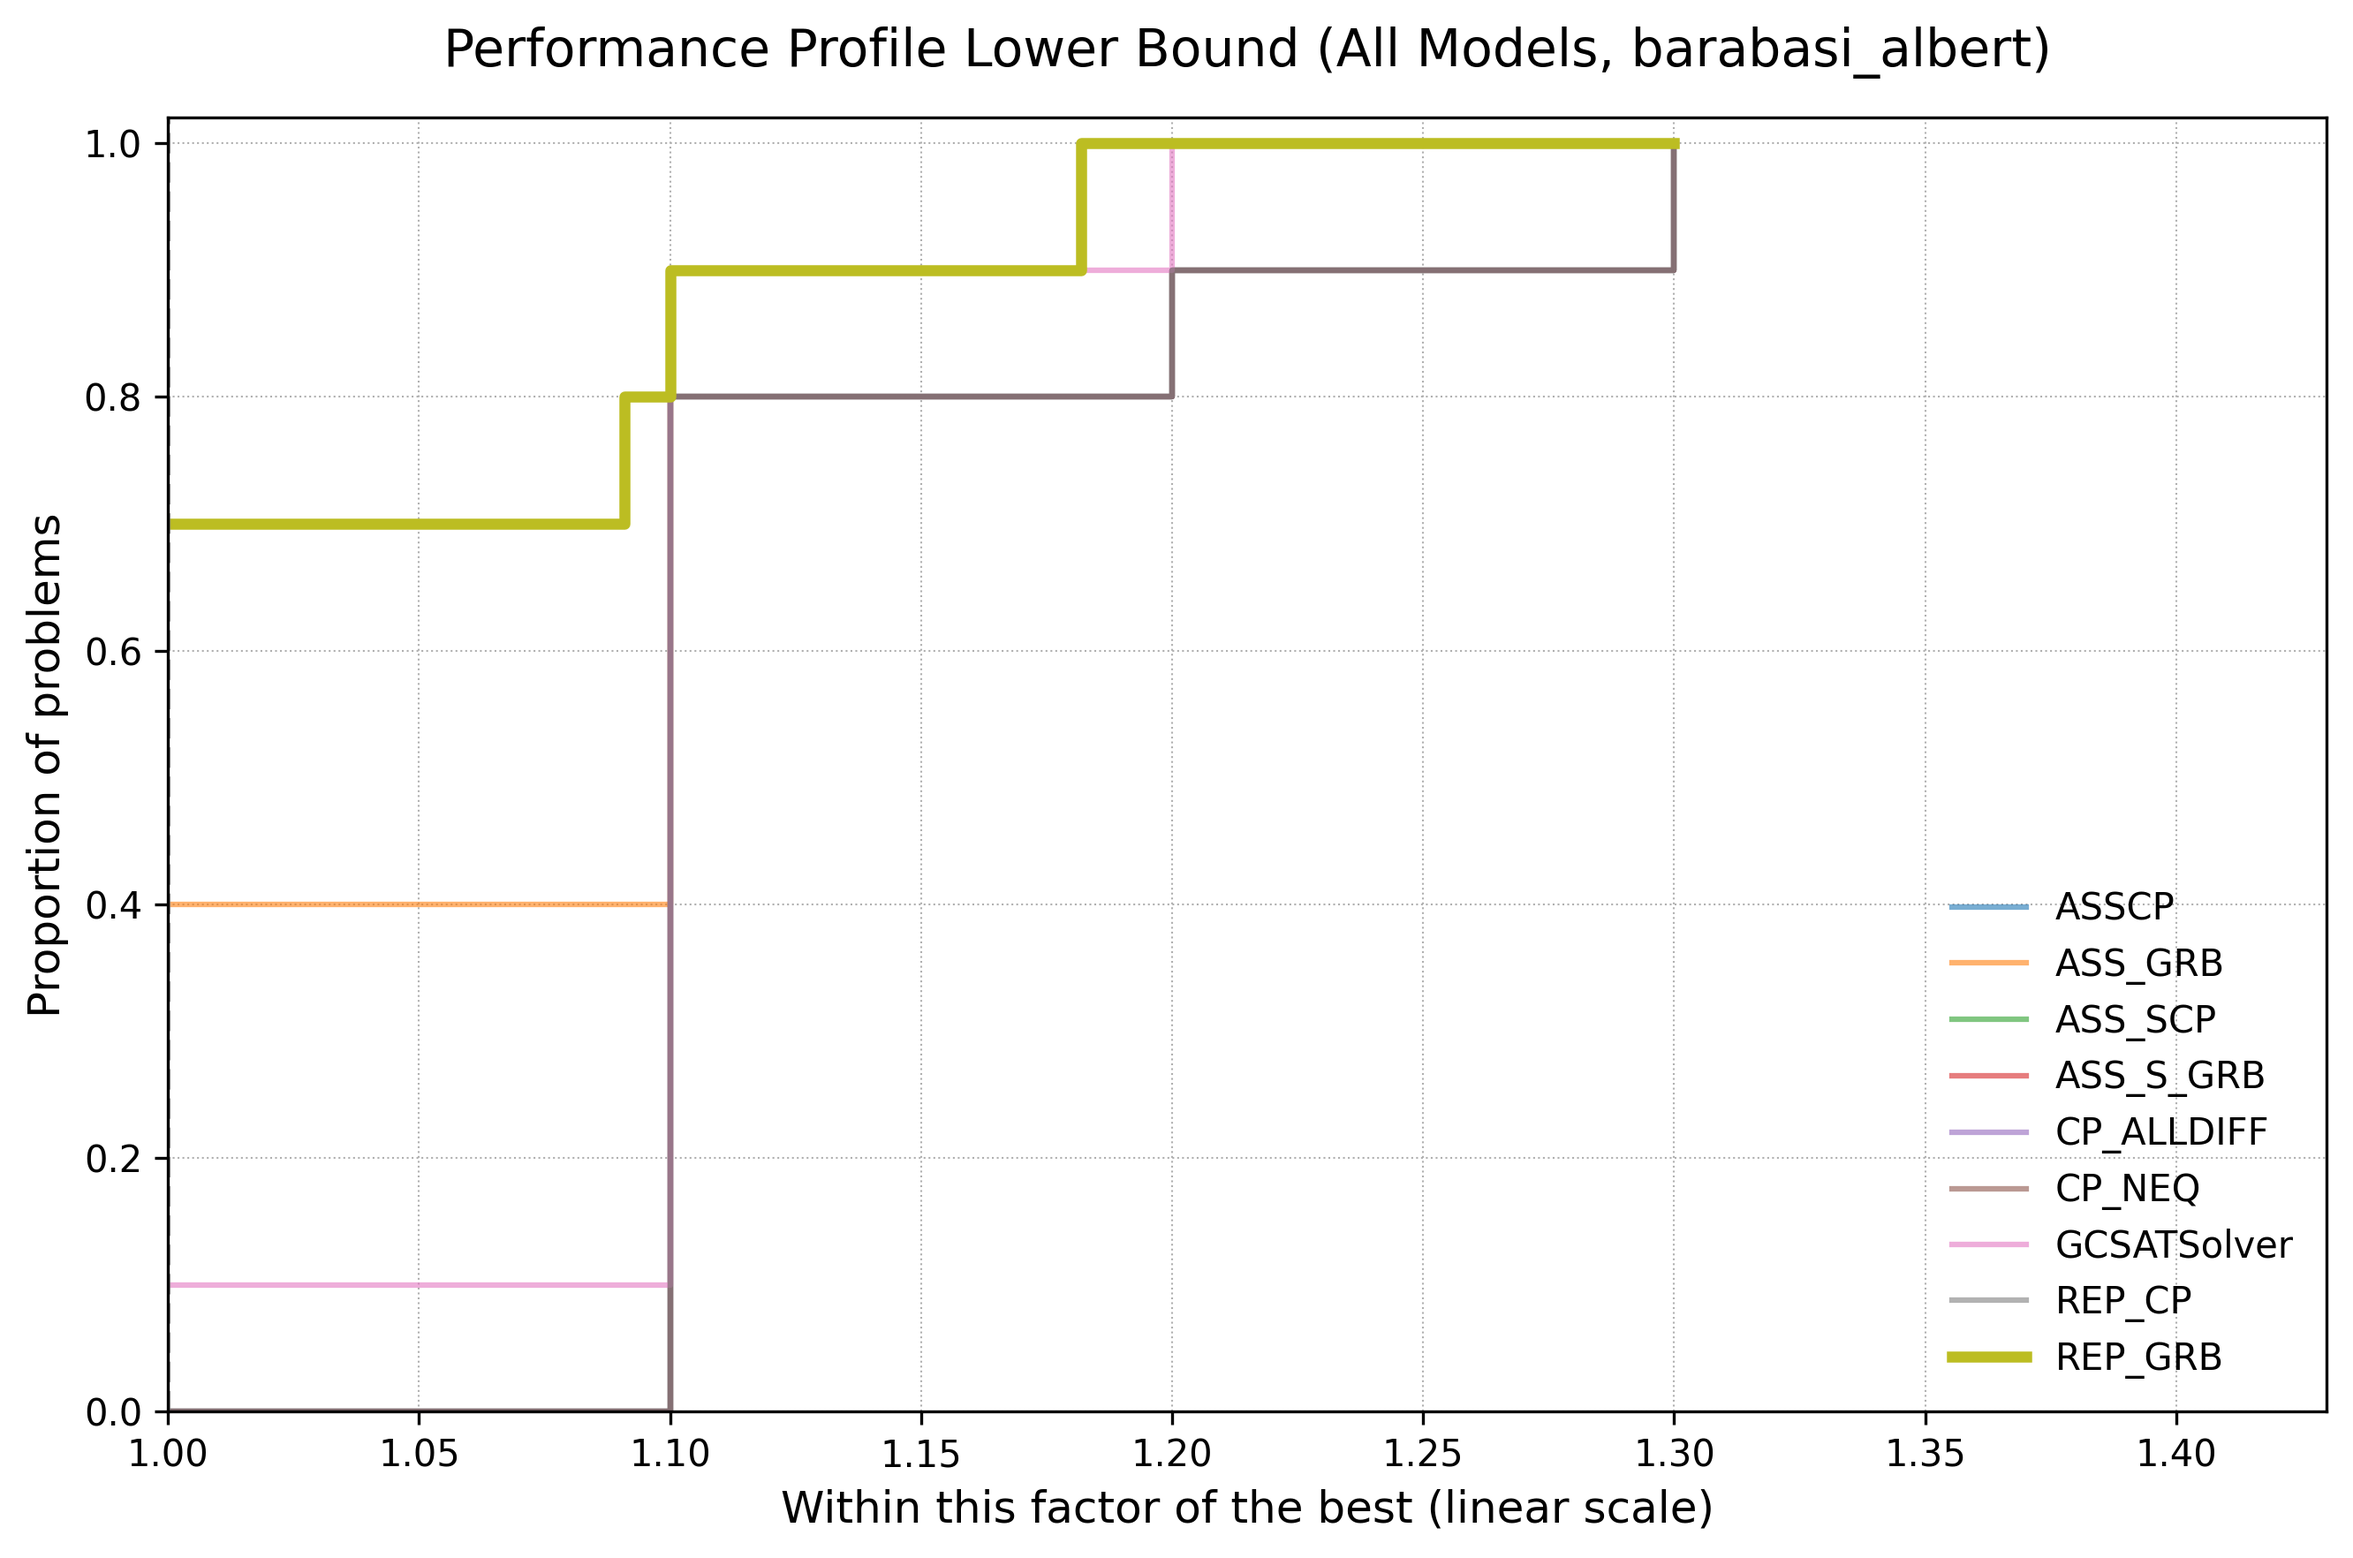
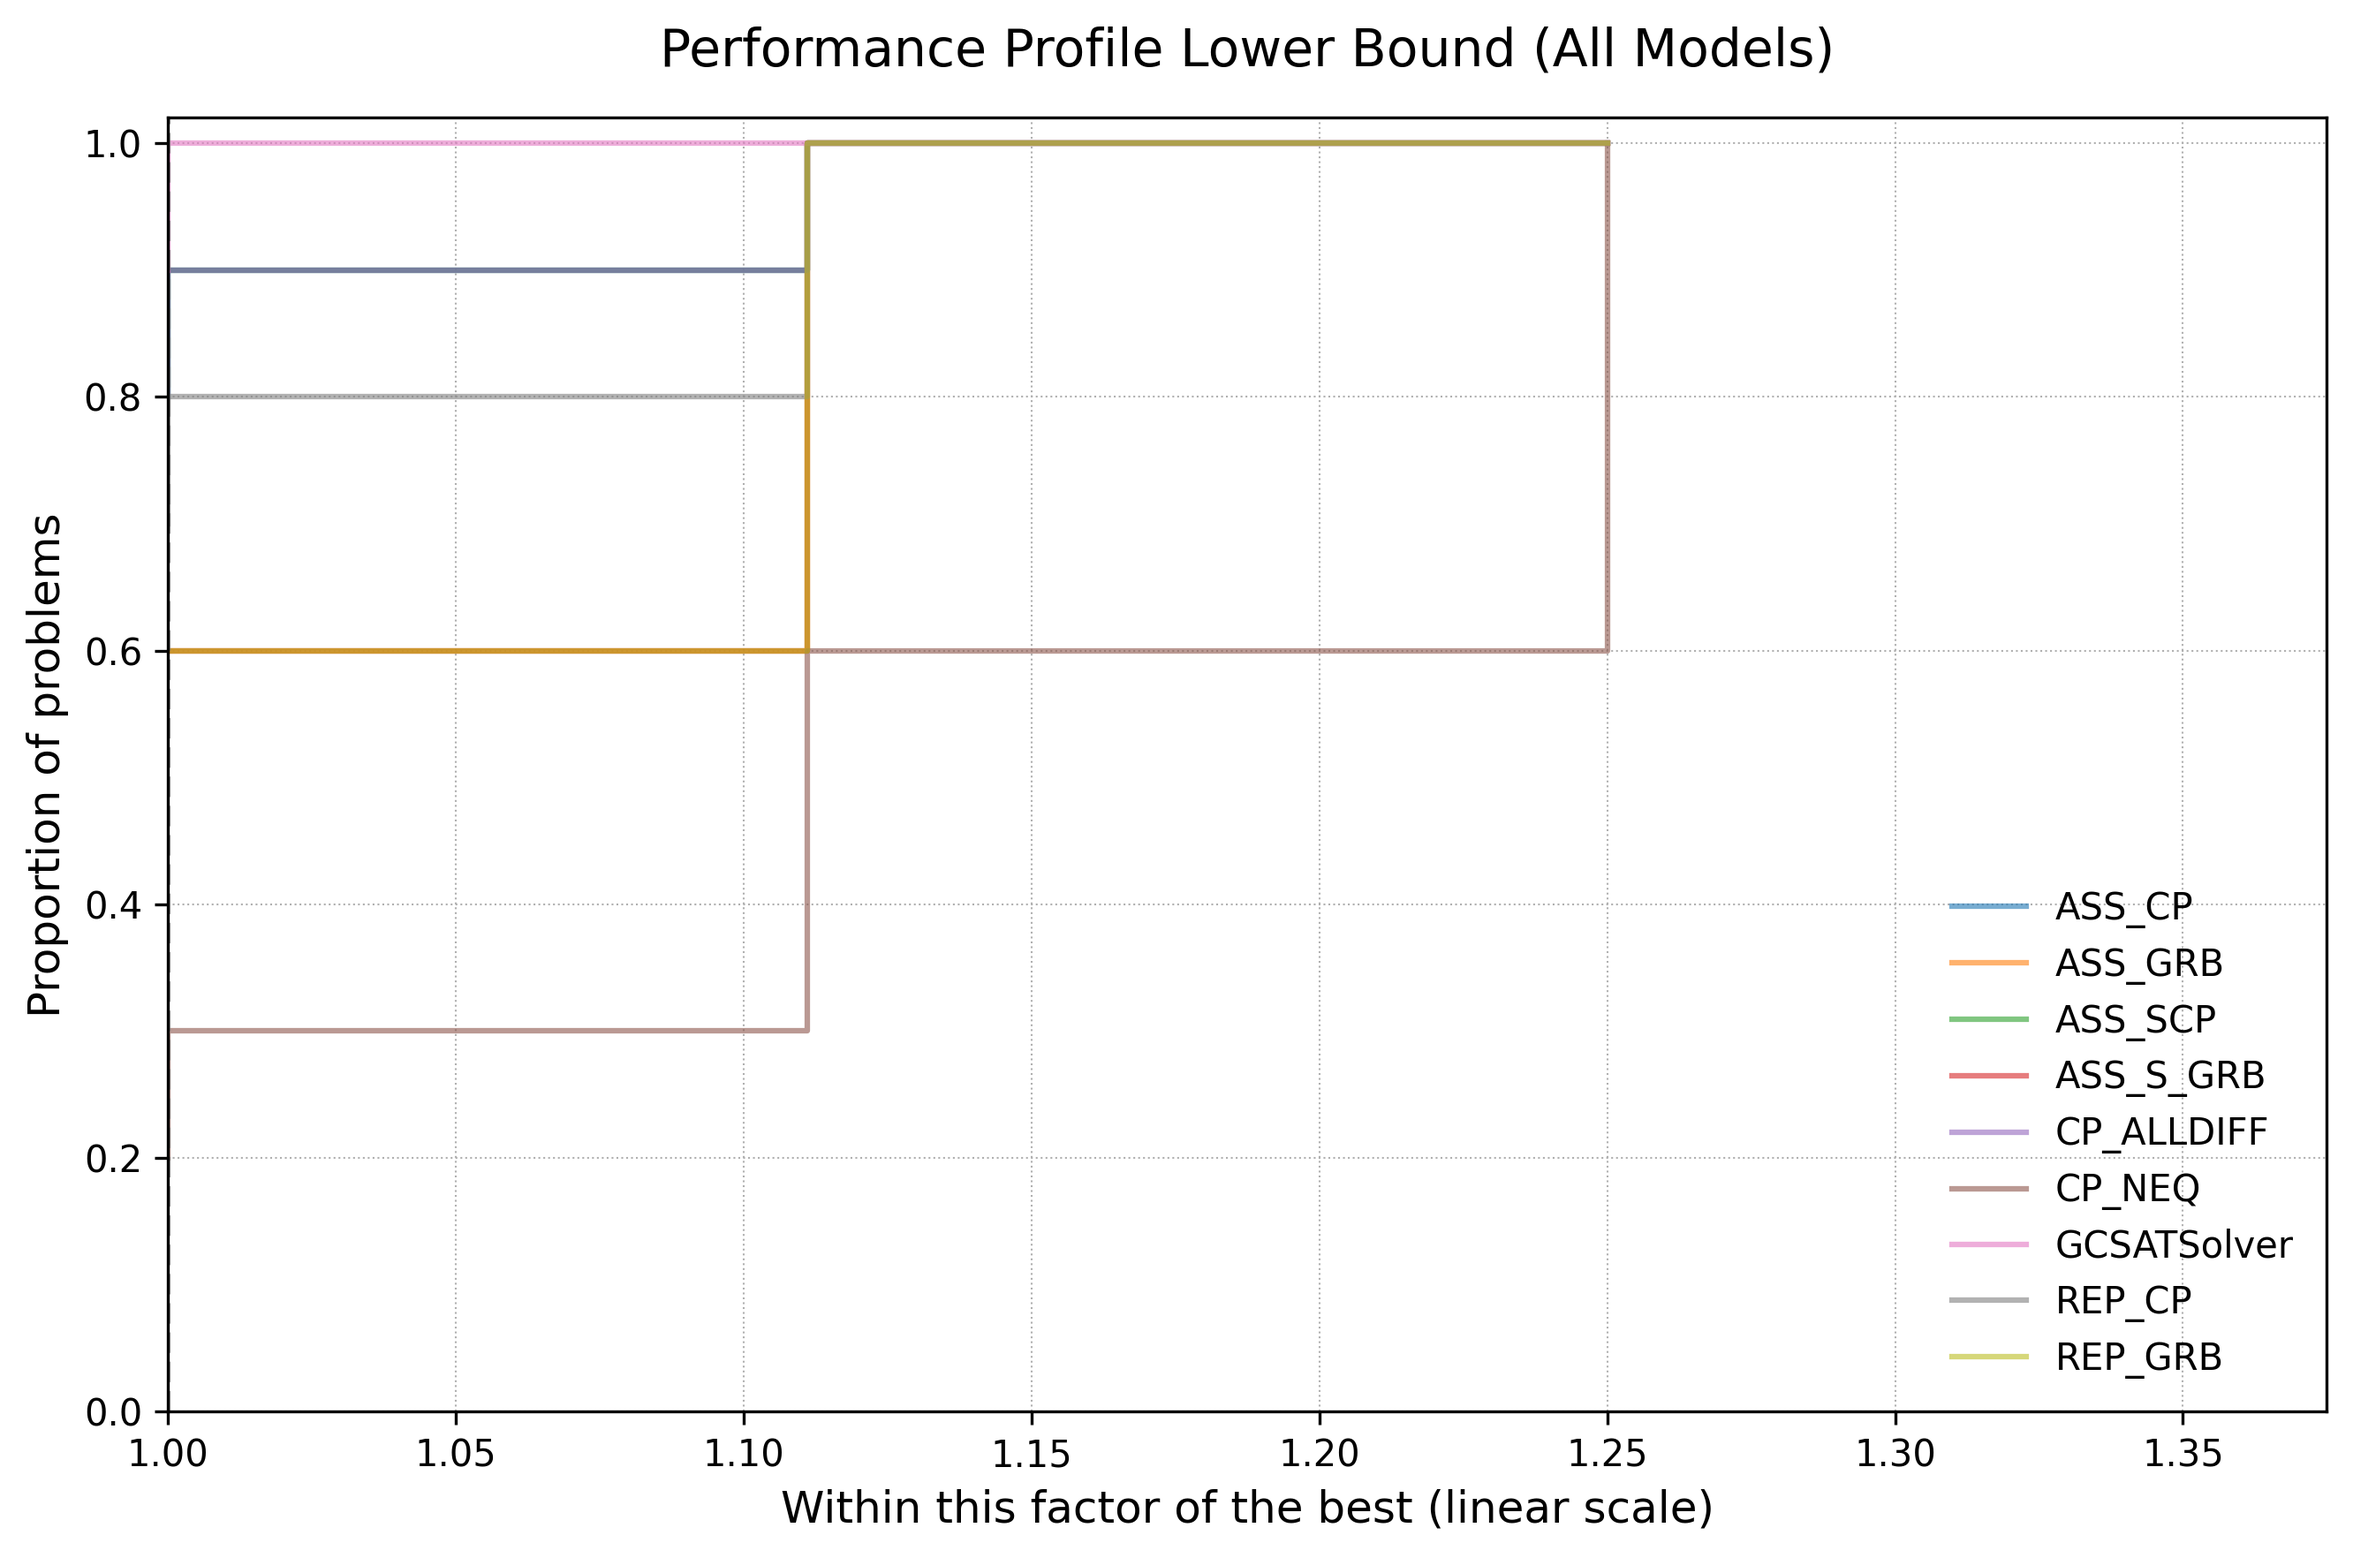
fix: wrong lb plot for bababasi graphs

diff --git a/sheets/05_graph_coloring/eprugho99.py b/sheets/05_graph_coloring/eprugho99.py
@@ -1,12 +1,12 @@
 # from models.gurobi.ass_grb import ASSGRB
 # from models.gurobi.ass_s_grb import ASS_SGRB
 # from models.gurobi.rep_grb import REP_GRB
-#from models.cp_sat.ass_cp import ASSCP
-# from models.cp_sat.ass_s_cp import ASS_SCP
-# from models.cp_sat.rep_cp import REP_CP
-# from models.cp_sat.cp_alldiff import CP_ALLDIFF
-# from models.cp_sat.cp_neq import CP_NEQ
-# from models.sat.sat_form_solver import GCSATSolver
+from models.cp_sat.ass_cp import ASSCP
+from models.cp_sat.ass_s_cp import ASS_SCP
+from models.cp_sat.rep_cp import REP_CP
+from models.cp_sat.cp_alldiff import CP_ALLDIFF
+from models.cp_sat.cp_neq import CP_NEQ
+from models.sat.sat_form_solver import GCSATSolver
 
 import os
 from _gclib import GCGraphInstance
@@ -28,21 +28,20 @@ data = pd.DataFrame({
 
 
 
-instances = [0, 0, 0, 1, 1, 1, 2, 2, 2, 3, 3, 3, 4, 4, 4, 5, 5, 5, 6, 6, 6, 7, 7, 7, 8, 8, 8, 9, 9, 9, 0, 0, 0, 1, 1, 1, 2, 2, 2, 3, 3, 3, 4, 4, 4, 5, 5, 5, 6, 6, 6, 7, 7, 7, 8, 8, 8, 9, 9, 9]
-
-
-
-
-
-strategies = ["ASS_GRB", "ASS_SGRB", "REP_GRB", "ASS_GRB", "ASS_SGRB", "REP_GRB", "ASS_GRB", "ASS_SGRB", "REP_GRB", "ASS_GRB", "ASS_SGRB", "REP_GRB", "ASS_GRB", "ASS_SGRB", "REP_GRB", "ASS_GRB", "ASS_SGRB", "REP_GRB", "ASS_GRB", "ASS_SGRB", "REP_GRB", "ASS_GRB", "ASS_SGRB", "REP_GRB", "ASS_GRB", "ASS_SGRB", "REP_GRB", "ASS_GRB", "ASS_SGRB", "REP_GRB", "ASS_GRB (preprocessed)", "ASS_S_GRB (preprocessed)", "REP_GRB (preprocessed)", "ASS_GRB (preprocessed)", "ASS_S_GRB (preprocessed)", "REP_GRB (preprocessed)", "ASS_GRB (preprocessed)", "ASS_S_GRB (preprocessed)", "REP_GRB (preprocessed)", "ASS_GRB (preprocessed)", "ASS_S_GRB (preprocessed)", "REP_GRB (preprocessed)", "ASS_GRB (preprocessed)", "ASS_S_GRB (preprocessed)", "REP_GRB (preprocessed)", "ASS_GRB (preprocessed)", "ASS_S_GRB (preprocessed)", "REP_GRB (preprocessed)", "ASS_GRB (preprocessed)", "ASS_S_GRB (preprocessed)", "REP_GRB (preprocessed)", "ASS_GRB (preprocessed)", "ASS_S_GRB (preprocessed)", "REP_GRB (preprocessed)", "ASS_GRB (preprocessed)", "ASS_S_GRB (preprocessed)", "REP_GRB (preprocessed)", "ASS_GRB (preprocessed)", "ASS_S_GRB (preprocessed)", "REP_GRB (preprocessed)"]
+instances = [0, 0, 0, 1, 1, 1, 2, 2, 2, 3, 3, 3, 4, 4, 4, 5, 5, 5, 6, 6, 6, 7, 7, 7, 8, 8, 8, 9, 9, 9]
 
 
 
 
 
 
-metrics = [11.0, 11.0, 12.0, 12.0, 12.0, 14.0, 13.0, 11.0, 14.0, 11.0, 10.0, 12.0, 12.0, 11.0, 14.0, 11.0, 11.0, 13.0, 11.0, 10.0, 13.0, 11.0, 10.0, 14.0, 12.0, 10.0, 12.0, 13.0, 12.0, 13.0, 11.0, 11.0, 12.0, 11.0, 11.0, 14.0, 12.0, 11.0, 14.0, 11.0, 10.0, 12.0, 12.0, 11.0, 14.0, 10.0, 11.0, 13.0, 11.0, 10.0, 13.0, 10.0, 10.0, 14.0, 11.0, 12.0, 12.0, 13.0, 12.0, 13.0]
+strategies = ["ASS_GRB", "ASS_S_GRB", "REP_GRB", "ASS_GRB", "ASS_S_GRB", "REP_GRB", "ASS_GRB", "ASS_S_GRB", "REP_GRB", "ASS_GRB", "ASS_S_GRB", "REP_GRB", "ASS_GRB", "ASS_S_GRB", "REP_GRB", "ASS_GRB", "ASS_S_GRB", "REP_GRB", "ASS_GRB", "ASS_S_GRB", "REP_GRB", "ASS_GRB", "ASS_S_GRB", "REP_GRB", "ASS_GRB", "ASS_S_GRB", "REP_GRB", "ASS_GRB", "ASS_S_GRB", "REP_GRB"]
 
+
+
+
+
+metrics = [9.00000000000091, 9.00000000000091, 9.00000000000091, 10.0, 10.0, 10.0, 9.000000000000021, 9.000000000000021, 9.000000000000021, 10.0, 10.0, 10.0, 9.000000000000014, 9.000000000000014, 9.000000000000014, 10.0, 10.0, 10.0, 9.000000000000004, 9.000000000000004, 9.000000000000004, 10.0, 10.0, 10.0, 10.0, 10.0, 10.0, 9.000000000000009, 9.000000000000009, 9.000000000000009]
 
 
 
@@ -51,20 +50,20 @@ metrics = [11.0, 11.0, 12.0, 12.0, 12.0, 14.0, 13.0, 11.0, 14.0, 11.0, 10.0, 12.
 
 all_graphs = GCGraphInstance()
 for i in range(10):
-    graph = all_graphs.graphs[f"erdos_renyi_graph{i}"]
+    graph = all_graphs.graphs[f"barabasi_albert_graph{i}"]
     """ 
     with open(f"instances/erdos_renyi_graph{name}.col", "w", encoding="utf-8") as file:
         for u, v in graph.edges():
             file.write(f"e {u} {v}\n")
     """
-    """ 
+
     sat = GCSATSolver(graph)
     sol_sat = sat.solve(60)
     instances.append(i)
     strategies.append("GCSATSolver")
     metrics.append(sat.lb)
 
-
+    """
     ng = ASSGRB(graph)
     sol_ng = ng.solve(60)
     instances.append(i)
@@ -84,7 +83,8 @@ for i in range(10):
     instances.append(i)
     strategies.append("REP_GRB")
     metrics.append(ds.lb)
-
+    """
+    
     ng = ASSCP(graph)
     sol_ng = ng.solve(60)
     instances.append(i)
@@ -115,11 +115,10 @@ for i in range(10):
     strategies.append("CP_ALLDIFF")
     metrics.append(ng.lb) 
 
-with open("all_lb_dataset.txt", "w", encoding="utf-8") as file:
+with open("all_dataset_barabasi_albert_lb.txt", "w", encoding="utf-8") as file:
     file.write(f"[{', '.join(map(str, instances))}]\n")
     file.write(f'''["{'", "'.join(strategies)}"]\n''')
     file.write(f"[{', '.join(map(str, metrics))}]\n")
- """
 
 
 data = pd.DataFrame({
@@ -134,13 +133,13 @@ ax = ppp.plot_performance_profile(
     instance_column="instance",
     strategy_column="strategy",
     metric_column="metric",
-    direction="min",        # "min" wenn kleiner besser ist
+    direction="max",        # "min" wenn kleiner besser ist
     comparison="relative",  # oder "absolute"
-    title="Performance Profile (All Models including preprocessing)",
+    title="Performance Profile Lower Bound (All Models)",
     highlight_best=True,
 )
 
 #plt.show()
 
-ax.figure.savefig("benchmarking/plots/grb_performance_erd_with_preprocessing.png", dpi=300, bbox_inches="tight")
+ax.figure.savefig("benchmarking/plots/all_performance_barabasi_albert_lb_test.png", dpi=300, bbox_inches="tight")
 
